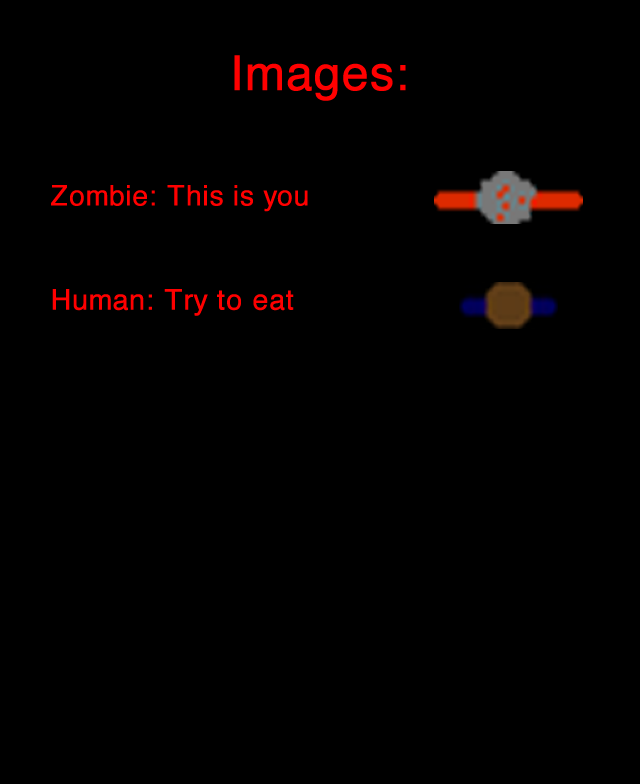
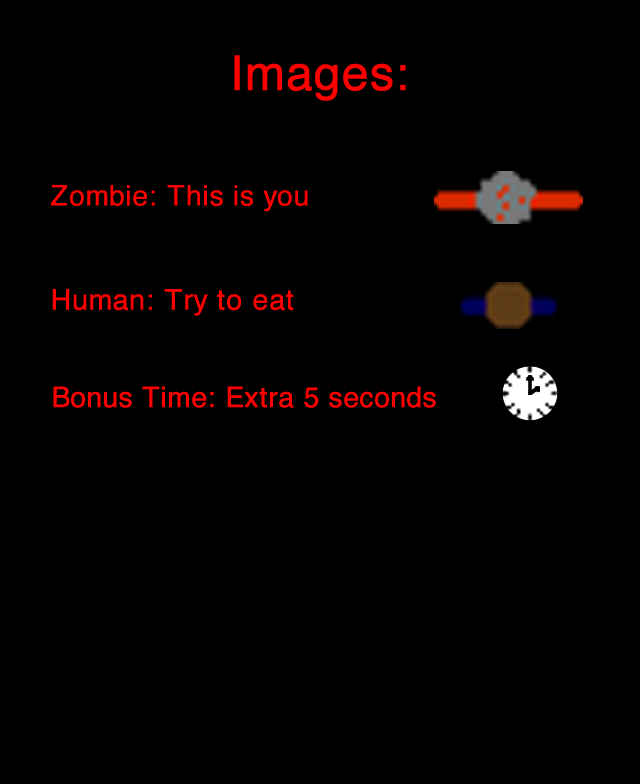
added "bonus time" power up. instructions updated to explain the bonus time.

Changed region(s): [[0.0625, 0.4898, 0.6875, 0.5204], [0.7812, 0.4592, 0.875, 0.551]]

diff --git a/Zombies/MainViewController.m b/Zombies/MainViewController.m
@@ -12,8 +12,7 @@
 
 @implementation MainViewController
 
-@synthesize x, y, scoreLabel, score, mainChar, menuButton, gamePaused, 
-enemyList, timeLeftLabel, timeLeft, timeIsUp, gameOverButton, delegate;
+@synthesize scoreLabel, score, mainChar, menuButton, timeLeftLabel, gameOverButton, delegate;
 
 - (void)didReceiveMemoryWarning
 {
@@ -71,9 +70,11 @@ enemyList, timeLeftLabel, timeLeft, timeIsUp, gameOverButton, delegate;
     @synchronized(self) {
         if (!gamePaused) {
             timeLeft = timeLeft - 1;
-            if ((arc4random() % 100) > 70) {
+            if ((arc4random() % 60) > 57 && !bonusGiven) {
+                bonusGiven = YES;
+                bonusTimeRepeats = 0;
                 [NSThread detachNewThreadSelector:@selector(backgroundMoveBonusTime) 
-                                         toTarget:self 
+                                         toTarget:self
                                        withObject:nil];
             }
         }
@@ -92,12 +93,60 @@ enemyList, timeLeftLabel, timeLeft, timeIsUp, gameOverButton, delegate;
 }
 
 - (void)backgroundMoveBonusTime {
+    bonusTime = [[UIImageView alloc] initWithImage:[UIImage imageNamed:@"bonusTime.png"]];
+    [bonusTime setAnimationDuration:1.0];
+    [bonusTime setAnimationRepeatCount:10];
+    bonusTime.center = CGPointMake((arc4random() % 320), (arc4random() % 480));
+    [self.view addSubview:bonusTime];
     [self performSelectorOnMainThread:@selector(runMoveBonusTime) 
                            withObject:nil 
                         waitUntilDone:NO];
 }
 
 - (void)runMoveBonusTime {
+    bonusTimeRepeats++;
+    
+    CGPoint pos = bonusTime.center;
+    int direction = (arc4random() % 4) + 1;
+    switch (direction) {
+        case 1:
+            pos.x = pos.x + 1;
+            pos.y = pos.y + 1;
+            break;
+        case 2:
+            pos.x = pos.x - 1;
+            pos.y = pos.y + 1;
+            break;
+        case 3:
+            pos.x = pos.x + 1;
+            pos.y = pos.y - 1;
+            break;
+        case 4:
+            pos.x = pos.x - 1;
+            pos.y = pos.y - 1;
+        default:
+            pos.x = pos.x + 1;
+            pos.y = pos.y + 1;
+            break;
+    }
+    bonusTime.center = pos;
+    
+    if (![self viewCollides:mainChar withView:bonusTime]) {
+        if (bonusTimeRepeats != 150) {
+            [NSTimer scheduledTimerWithTimeInterval:.04 
+                                             target:self 
+                                           selector:@selector(runMoveBonusTime) 
+                                           userInfo:nil 
+                                            repeats:NO];
+        }
+        else {
+            [bonusTime removeFromSuperview];
+        }
+    }
+    else {
+        timeLeft = timeLeft + 5;
+        [bonusTime removeFromSuperview];
+    }
     
 }
 

diff --git a/Zombies/MainViewController.h b/Zombies/MainViewController.h
@@ -37,6 +37,9 @@
     int timeLeft;
     BOOL timeIsUp;
     BOOL gamePaused;
+    BOOL bonusGiven;
+    int bonusTimeRepeats;
+    UIImageView *bonusTime;
 }
 
 - (void)backgroundMoveEnemy;
@@ -57,11 +60,5 @@
 @property (strong) UILabel *timeLeftLabel;
 @property (strong) UIButton *menuButton;
 @property int score;
-@property double x;
-@property double y;
-@property (strong) NSMutableArray *enemyList;
-@property int timeLeft;
-@property BOOL timeIsUp;
-@property BOOL gamePaused;
 
 @end

diff --git a/Zombies/Enemy.m b/Zombies/Enemy.m
@@ -22,7 +22,7 @@
     return self;
 }
 
-- (void)moveEnemyUp {
+-(void)moveEnemyUp {
     CGPoint pos = self.center;
     if (pos.y < 1)
         pos.y = 479;
